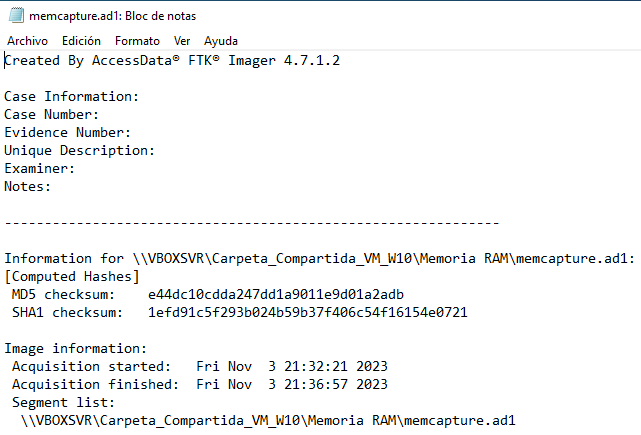
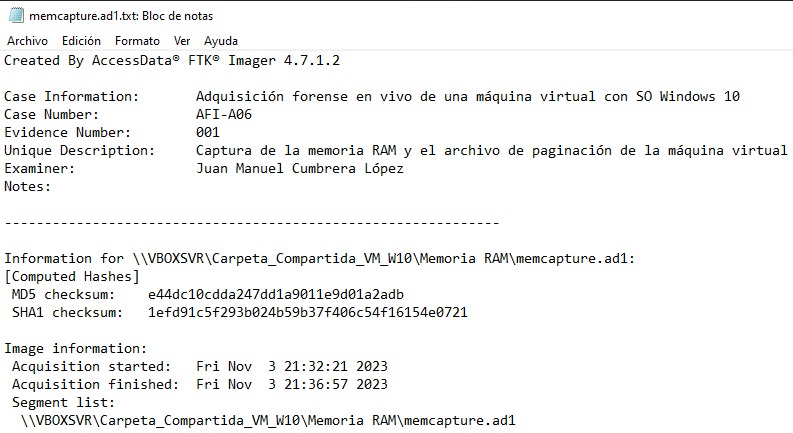
Trabajo terminado
- Imagen RAM3.png cambiada
- Documento redactado

diff --git a/README.md b/README.md
@@ -4,4 +4,51 @@ Para la realización de la siguiente práctica contaremos con una máquina virtu
 
 Para comenzar con la adquisición en vivo de esta máquina virtual, debemos referirnos a la sección de adquisición de la metodología previamente desarrollada para la práctica del análisis forense informñatico. En esta ocasión realizaremos tan sólo el paso de la adquisición, y por ello nos remitiremos a la susodicha sección en la metodología forense desarrollada.
 
-En la sección de adquisición de evidencias previamente mencionada..
+En la sección de adquisición de evidencias previamente mencionada se detallan  puntos a tener en cuenta, siendo estos el valor relativo probable de las fuentes de evidencia, el esfuerzo requerido para obtenerlas y la volatilidad.
+
+Teniendo en cuenta el caso que nos ocupa, en el que disponemos de una única fuente de evidencia que es la máquina virtual con sistema operativo Windows 10, debemos centrarnos en obtener primero las evidencias más volátiles, por lo que decidimos realizar en primer lugar una captura de la ***memoria RAM*** de la máquina. Para esta tarea hemos elegido el software ***FTK Imager*** de AccessData.
+
+Como carpeta de destino de la captura de la memoria RAM, hemos creado una carpeta compartida, a fin de no colapsar el escaso espacio del disco de la máquina.
+
+![RAM1](img/RAM1.png)
+
+Una vez finalizada la operación, obtenemos en la susodicha carpeta tanto el volcado de memoria RAM, así como una captura del archivo de paginación y un archivo en formato txt con datos sobre la captura.
+Debemos recordar que este archivo es usado por Windows como una extensión de la memoria RAM física, a fin de manejar el intercambio de datos entre la RAM y el almacenamiento de disco. 
+
+![RAM2](img/RAM2.png)
+
+![RAM3](img/RAM3.png)
+
+Una vez que hemos obtenido tanto la memoria RAM como el archivo de paginación de la máquina virtual, debemos centrarnos en elementos del sistema con un orden inmediatamente inferior en términos de volatilidad tales como ***tablas de procesos y servicios*** del sistema. Haciendo uso de la herramienta de triage ***IRTriage-Master***, podremos obtener rápidamente una gran cantidad de datos importantes del sistema a analizar, entre los que tenemos información general del sistema, información de la red, registros o información del disco.Para comenzar, rellenamos la información relativa al caso y comenzamos la operación.
+
+![Triage1](img/Triage1.png)
+
+![Triage2](img/Triage2.png)
+
+Una vez terminada la operaración de triage, podremos ver la carpeta recién creada, con la totalidad de los datos extraídos por la aplicación.
+
+![Triage3](img/Triage3.png)
+
+![Triage4](img/Triage4.png)
+
+Dentro de dicha carpeta, podremos ver un fichero Collection.txt con información general de la extracción, así como una carpeta Evidence, conteniendo los datos extraídos.
+
+![Triage5](img/Triage5.png)
+
+![Triage6](img/Triage6.png)
+
+Finalmente, habiendo adquirido los datos más volátiles de la máquina virtual con anterioridad, podremos obtenemos una imagen del disco de la misma, finalizando la operación de adquisición de la máquina virtual. Para llevar a cabo este proceso hemos vuelto a elegir la aplicación ***FTK Imager*** de AccessData, debido a la sencillez de uso y su efectividad durante la extracción y adquisición de datos o imágenes de discos o información del sistema. En esta ocasión hemos vuelto a optar por usar la carpeta compartida, debido a la falta de espacio en el disco de la máquina virtual. 
+
+![Disco1](img/Disco1.png)
+
+Esta herramienta además, te permite comprobar los hashes tanto del disco original como de la imagen adquirida, a fin de garantizar la integridad y fiabilidad de las evidencias.
+
+![Disco2](img/Disco2.png)
+
+Cuando se ha terminado la operación, podemos ver la imagen adquirida del disco de la máquina virtual, así como un fichero en formato txt con información general acerca del proceso de adquisición de la imagen del disco.
+
+![Disco3](img/Disco3.png)
+
+![Disco3](img/Disco4.png)
+
+Con estas operaciones hemos logrado obtener con precisión los datos volátiles y no volátiles de la máquina virtual elegida, además de haber verificado los hashes durante todo el proceso, asegurándonos de la integridad y fiabilidad de los datos obtenidos, lo cual podemos comprobar en los ficheros autogenerados, con información general sobre los procesos llevados a cabo.
